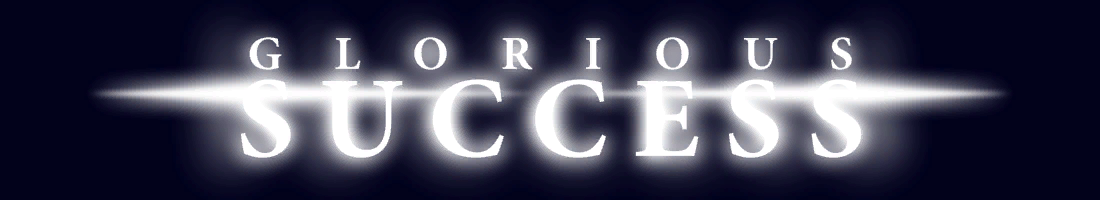
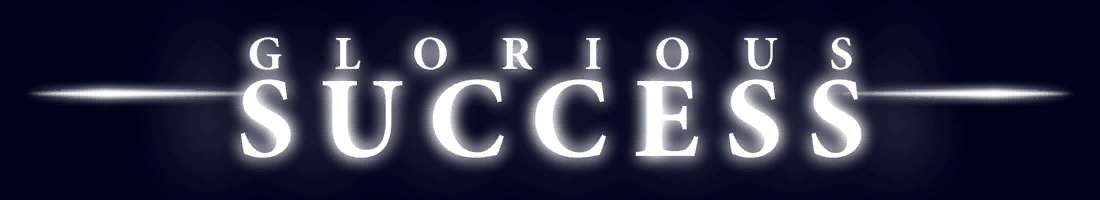
Sin : Chap4 업데이트

diff --git a/Helltaker/Helltaker_Contents/SinChapter4.cpp b/Helltaker/Helltaker_Contents/SinChapter4.cpp
@@ -48,6 +48,7 @@ void SinChapter4::BeginPlay()
 	if (false == IsLoad)
 	{
 		ContentsHelper::LoadImg("Scene\\Characters", "Jud_Resign.png");
+		ContentsHelper::LoadImg("Scene\\Characters", "Jud_Shock.png");
 
 		AddChapterSet("SinChapter4");
 
@@ -281,6 +282,24 @@ void SinChapter4::SelectMenu()
 	case 12:
 		Select13();
 		break;
+	case 13:
+		Select14();
+		break;
+	}
+}
+
+void SinChapter4::Success(float _DeltaTime)
+{
+	SinCutSceneManager::Success(_DeltaTime);
+
+	switch (OrderCount)
+	{
+	case 0:
+		Success1();
+		break;
+	case 1:
+		Success2();
+		break;
 	}
 }
 
@@ -389,6 +408,36 @@ void SinChapter4::Select13()
 	C_GetBooper()->GetImageRenderer()->ActiveOff();
 
 	++OrderCount;
+}
+
+void SinChapter4::Select14()
+{
+	FVector Scale = { 0.466f, 0.693f };
+	FVector Pos = { 0.0f, -0.042f };
+	C_JudgeChange("Jud_Shock.png", Pos, Scale);
+	C_BooperTextSet(SinChap4_Script[19]);
+
+	OrderCount = 0;
+	C_StateChange(ESinSceneState::Success);
+}
+
+void SinChapter4::Success1()
+{
+	if (UEngineInput::IsDown(VK_SPACE) || UEngineInput::IsDown(VK_RETURN))
+	{
+		C_BooperTextSet(SinChap4_Script[20]);
+
+		FVector WinScale = ContentsHelper::GetWindowScale();
+		C_GetBooper()->GetImageRenderer()->ChangeAnimation("Booper_Idle");
+		C_GetBooper()->GetImageRenderer()->SetTransform({ {0, 0}, { WinScale.X * 0.027f, WinScale.Y * 0.022f } });
+
+		++OrderCount;
+	}
+}
+
+void SinChapter4::Success2()
+{
+	int a = 0;
 }
 
 void SinChapter4::ChangeChapter()

diff --git a/Helltaker/Helltaker_Contents/SinCutSceneManager.cpp b/Helltaker/Helltaker_Contents/SinCutSceneManager.cpp
@@ -341,6 +341,30 @@ void SinCutSceneManager::Select()
 	}
 }
 
+void SinCutSceneManager::SuccessStart()
+{
+	C_MenubarRenderActiveOff();
+
+	FVector WinScale = ContentsHelper::GetWindowScale();
+	Booper->GetImageRenderer()->CreateAnimation("Scene_GSuccess", "Success", 8, 15, 0.05f, false);
+	Booper->GetImageRenderer()->ChangeAnimation("Scene_GSuccess");
+	Booper->GetImageRenderer()->SetTransform({ { 0.0f, WinScale.Y * 0.0275f }, { WinScale.X * 0.572f, WinScale.Y * 0.185f } });
+	Booper->GetImageRenderer()->ActiveOn();
+
+	UEngineSound::SoundPlay("dialogue_success.wav");
+}
+
+void SinCutSceneManager::Success(float _DeltaTime)
+{
+	ResetCheck();
+}
+
+void SinCutSceneManager::SuccessEnd()
+{
+
+
+}
+
 void SinCutSceneManager::ResetCheck()
 {
 	SinChapterManager::ResetCheck();
@@ -371,6 +395,9 @@ void SinCutSceneManager::StateUpdate(float _DeltaTime)
 	case ESinSceneState::End:
 		End(_DeltaTime);
 		break;
+	case ESinSceneState::Success:
+		Success(_DeltaTime);
+		break;
 	}
 }
 
@@ -388,6 +415,9 @@ void SinCutSceneManager::C_StateChange(ESinSceneState _State)
 			break;
 		case ESinSceneState::End:
 			EndStart();
+			break;
+		case ESinSceneState::Success:
+			SuccessStart();
 			break;
 		}
 	}

diff --git a/Helltaker/Helltaker_Contents/SinChapter4.h b/Helltaker/Helltaker_Contents/SinChapter4.h
@@ -33,6 +33,8 @@ protected:
 	void SelectStart() override;
 	void SelectMenu() override;
 
+	void Success(float _DeltaTime) override;
+
 	void ChangeChapter() override;
 
 private:
@@ -49,6 +51,10 @@ private:
 	void Select11();
 	void Select12();
 	void Select13();
+	void Select14();
+
+	void Success1();
+	void Success2();
 
 private:
 	int OrderCount = -1;

diff --git a/Helltaker/Helltaker_Contents/SinCutSceneManager.h b/Helltaker/Helltaker_Contents/SinCutSceneManager.h
@@ -103,6 +103,10 @@ protected:
 	virtual void Select();
 	virtual void SelectMenu() {};
 
+	virtual void SuccessStart();
+	virtual void Success(float _DeltaTime);
+	virtual void SuccessEnd();
+
 	void ResetCheck() override;
 
 private:

diff --git a/Helltaker/Helltaker_Contents/ContentsHelper.h b/Helltaker/Helltaker_Contents/ContentsHelper.h
@@ -202,6 +202,7 @@ enum class ESinSceneState
 	None,
 	Enter,
 	Select,
+	Success,
 	End
 };
 
